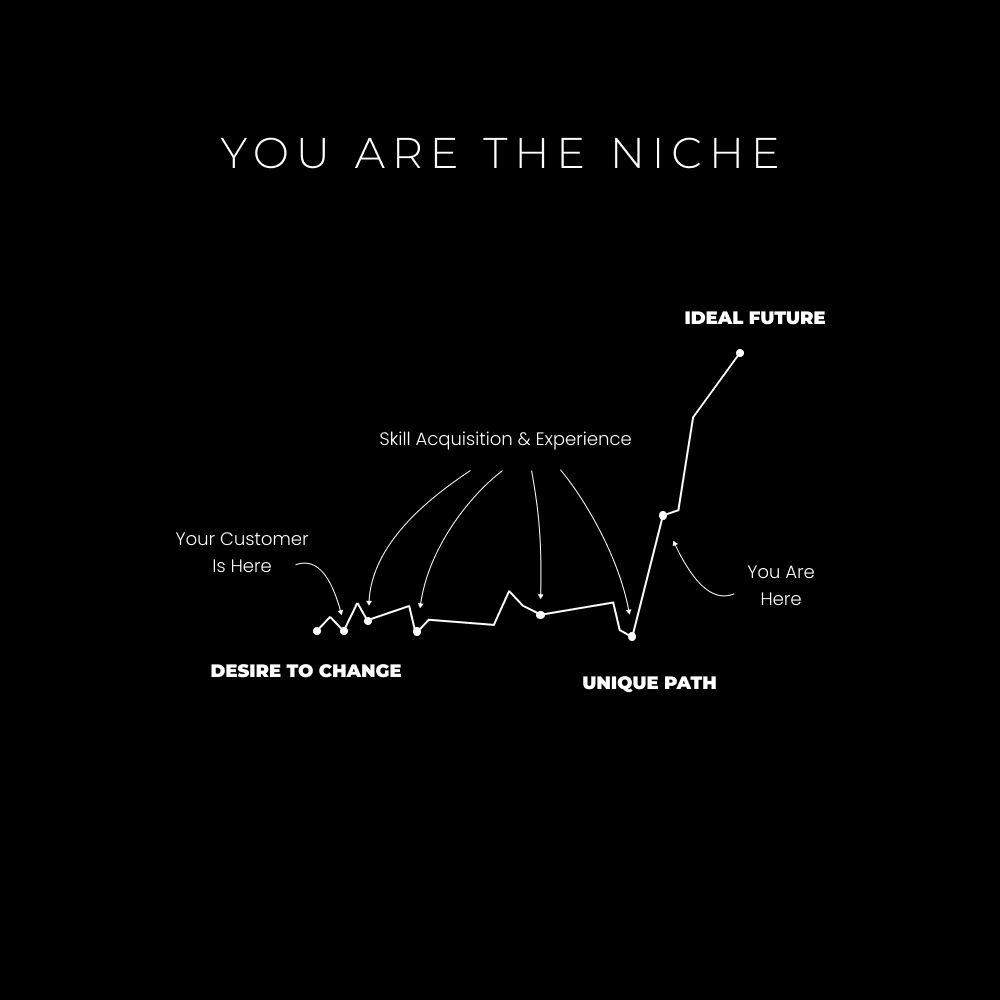
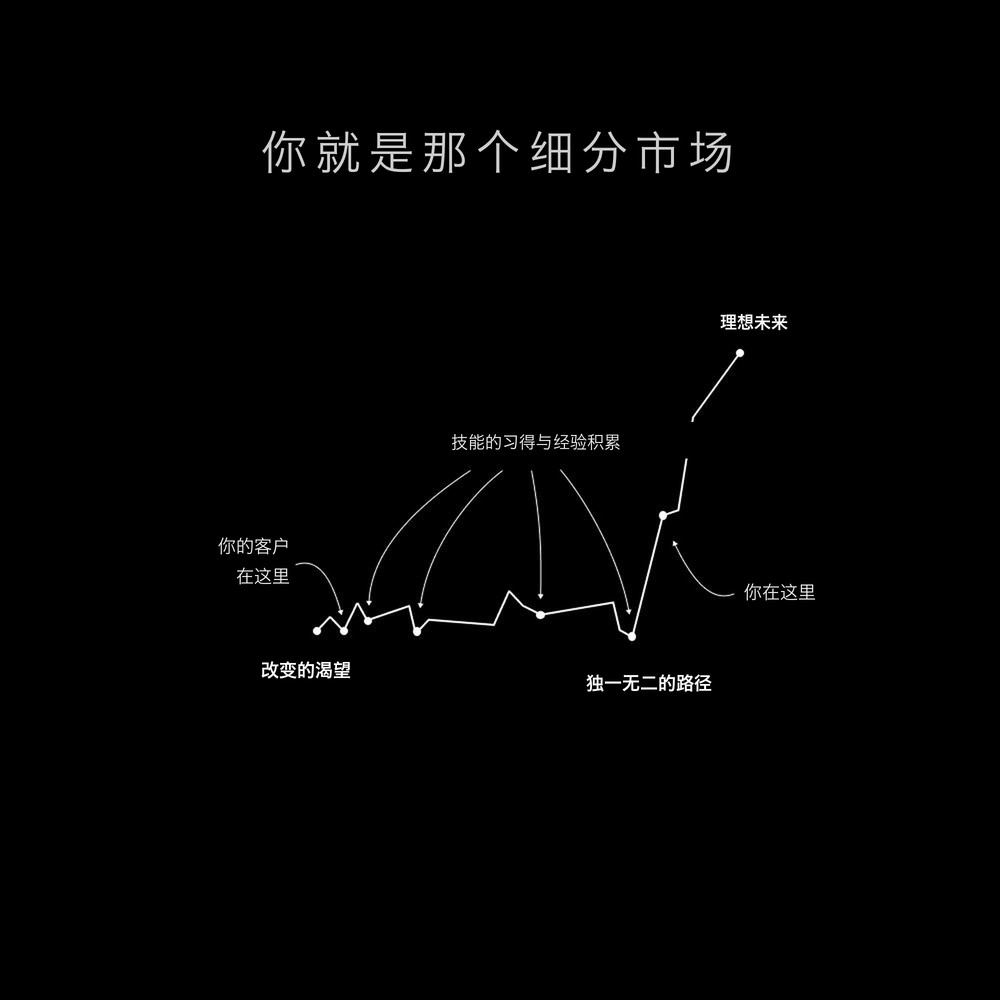
配图汉化第四批：细分市场/心流模型/已知与未知三张重制为中文版，sw v6

diff --git a/sw.js b/sw.js
@@ -1,4 +1,4 @@
-const V='dk-book-20261121-v5';const F=["notes-core.js", "notes-ui.js", "notes.css", "audio-manifest.json", "audio.js", "a/01.html", "a/02.html", "a/03.html", "a/04.html", "a/05.html", "a/06.html", "a/07.html", "a/08.html", "a/09.html", "a/10.html", "a/11.html", "a/12.html", "a/13.html", "a/14.html", "a/15.html", "a/16.html", "a/17.html", "a/18.html", "a/19.html", "a/20.html", "a/21.html", "a/22.html", "a/23.html", "a/n01.html", "a/n02.html", "a/n03.html", "a/n12.html", "a/n11.html", "a/n10.html", "a/n09.html", "a/n08.html", "a/n07.html", "a/n06.html", "a/n05.html", "a/n04.html", "app.js", "reading-layout.js", "fonts/NotoSerifSC-Bold.woff2", "fonts/NotoSerifSC-Regular.woff2", "fonts/fonts.css", "glossary.html", "img/01_1.jpg", "img/01_2.jpg", "img/01_3.jpg", "img/01_5.jpg", "img/01_cover.jpg", "img/02_1.jpg", "img/02_2.jpg", "img/02_3.jpg", "img/02_4.jpg", "img/02_cover.jpg", "img/03_1.jpg", "img/03_2.jpg", "img/03_3.jpg", "img/03_4.jpg", "img/03_cover.jpg", "img/04_cover.jpg", "img/05_1.jpg", "img/05_2.jpg", "img/05_3.jpg", "img/05_cover.jpg", "img/06_1.jpg", "img/06_2.jpg", "img/06_cover.jpg", "img/07_1.jpg", "img/07_2.jpg", "img/07_3.jpg", "img/07_cover.jpg", "img/08_1.jpg", "img/08_2.jpg", "img/08_3.jpg", "img/08_4.jpg", "img/08_5.jpg", "img/08_6.jpg", "img/08_7.jpg", "img/08_cover.jpg", "img/09_cover.jpg", "img/10_cover.jpg", "img/11_cover.jpg", "img/12_1.jpg", "img/12_2.jpg", "img/12_3.jpg", "img/12_4.jpg", "img/12_5.jpg", "img/12_cover.jpg", "img/13_1.jpg", "img/13_2.jpg", "img/13_3.jpg", "img/13_4.jpg", "img/13_cover.jpg", "img/14_1.jpg", "img/14_2.jpg", "img/14_3.jpg", "img/14_cover.jpg", "img/15_1.jpg", "img/15_2.jpg", "img/15_3.jpg", "img/15_4.jpg", "img/15_cover.jpg", "img/16_1.jpg", "img/16_cover.jpg", "img/17_cover.jpg", "img/18_1.jpg", "img/18_2.jpg", "img/18_cover.jpg", "img/19_cover.jpg", "img/20_1.jpg", "img/20_2.jpg", "img/20_cover.jpg", "img/21_1.jpg", "img/21_2.jpg", "img/21_3.jpg", "img/21_cover.jpg", "img/22_cover.jpg", "img/23_1.jpg", "img/23_2.jpg", "img/23_3.jpg", "img/23_cover.jpg", "img/n01_cover.jpg", "img/n02_cover.jpg", "img/n03_cover.jpg", "img/n12_cover.jpg", "img/n11_cover.jpg", "img/n10_cover.jpg", "img/n09_cover.jpg", "img/n08_cover.jpg", "img/n07_cover.jpg", "img/n06_cover.jpg", "img/n05_cover.jpg", "img/n04_cover.jpg", "index.html", "manifest.json", "meta.js", "naval-posts.html", "naval-posts-2025.html", "notes.html", "posts.html", "style.css"];
+const V='dk-book-20261121-v6';const F=["notes-core.js", "notes-ui.js", "notes.css", "audio-manifest.json", "audio.js", "a/01.html", "a/02.html", "a/03.html", "a/04.html", "a/05.html", "a/06.html", "a/07.html", "a/08.html", "a/09.html", "a/10.html", "a/11.html", "a/12.html", "a/13.html", "a/14.html", "a/15.html", "a/16.html", "a/17.html", "a/18.html", "a/19.html", "a/20.html", "a/21.html", "a/22.html", "a/23.html", "a/n01.html", "a/n02.html", "a/n03.html", "a/n12.html", "a/n11.html", "a/n10.html", "a/n09.html", "a/n08.html", "a/n07.html", "a/n06.html", "a/n05.html", "a/n04.html", "app.js", "reading-layout.js", "fonts/NotoSerifSC-Bold.woff2", "fonts/NotoSerifSC-Regular.woff2", "fonts/fonts.css", "glossary.html", "img/01_1.jpg", "img/01_2.jpg", "img/01_3.jpg", "img/01_5.jpg", "img/01_cover.jpg", "img/02_1.jpg", "img/02_2.jpg", "img/02_3.jpg", "img/02_4.jpg", "img/02_cover.jpg", "img/03_1.jpg", "img/03_2.jpg", "img/03_3.jpg", "img/03_4.jpg", "img/03_cover.jpg", "img/04_cover.jpg", "img/05_1.jpg", "img/05_2.jpg", "img/05_3.jpg", "img/05_cover.jpg", "img/06_1.jpg", "img/06_2.jpg", "img/06_cover.jpg", "img/07_1.jpg", "img/07_2.jpg", "img/07_3.jpg", "img/07_cover.jpg", "img/08_1.jpg", "img/08_2.jpg", "img/08_3.jpg", "img/08_4.jpg", "img/08_5.jpg", "img/08_6.jpg", "img/08_7.jpg", "img/08_cover.jpg", "img/09_cover.jpg", "img/10_cover.jpg", "img/11_cover.jpg", "img/12_1.jpg", "img/12_2.jpg", "img/12_3.jpg", "img/12_4.jpg", "img/12_5.jpg", "img/12_cover.jpg", "img/13_1.jpg", "img/13_2.jpg", "img/13_3.jpg", "img/13_4.jpg", "img/13_cover.jpg", "img/14_1.jpg", "img/14_2.jpg", "img/14_3.jpg", "img/14_cover.jpg", "img/15_1.jpg", "img/15_2.jpg", "img/15_3.jpg", "img/15_4.jpg", "img/15_cover.jpg", "img/16_1.jpg", "img/16_cover.jpg", "img/17_cover.jpg", "img/18_1.jpg", "img/18_2.jpg", "img/18_cover.jpg", "img/19_cover.jpg", "img/20_1.jpg", "img/20_2.jpg", "img/20_cover.jpg", "img/21_1.jpg", "img/21_2.jpg", "img/21_3.jpg", "img/21_cover.jpg", "img/22_cover.jpg", "img/23_1.jpg", "img/23_2.jpg", "img/23_3.jpg", "img/23_cover.jpg", "img/n01_cover.jpg", "img/n02_cover.jpg", "img/n03_cover.jpg", "img/n12_cover.jpg", "img/n11_cover.jpg", "img/n10_cover.jpg", "img/n09_cover.jpg", "img/n08_cover.jpg", "img/n07_cover.jpg", "img/n06_cover.jpg", "img/n05_cover.jpg", "img/n04_cover.jpg", "index.html", "manifest.json", "meta.js", "naval-posts.html", "naval-posts-2025.html", "notes.html", "posts.html", "style.css"];
 self.addEventListener('install',e=>{e.waitUntil(caches.open(V).then(c=>c.addAll(F)).then(()=>self.skipWaiting()))});
 self.addEventListener('activate',e=>{e.waitUntil(caches.keys().then(k=>Promise.all(k.filter(x=>x.startsWith('dk-')&&x!==V).map(x=>caches.delete(x)))).then(()=>self.clients.claim()))});
 self.addEventListener('fetch',e=>{if(e.request.method!=='GET')return;

diff --git a/a/12.html b/a/12.html
@@ -23,7 +23,7 @@
 <p data-b="11" id="p11">最后，我有一个简短的练习，6 个问题，它也许能为你打开一种全新的生活方式——哪怕它看起来很简单。</p><div class="en-p" lang="en">At the end, I have a short practice, with 6 questions, which may open you up to a new way of life - even if it seems simple.</div>
 <hr/>
 <p data-b="12" id="p12">开始之前，先自我赞助一下，两件事（要是你一看别人推广就上火，请跳过）：</p><div class="en-p" lang="en">Before we begin, self-sponsorship, 2 things (skip if you get mad at people promoting):</div>
-<figure class="fig"><img alt="原文配图" loading="lazy" src="../img/12_2.jpg"/></figure>
+<figure class="fig"><img alt="已知与未知之间那道边缘：就业、创业与最佳切换时机" loading="lazy" src="../img/12_2.jpg"/></figure>
 <details class="promo"><summary>作者产品推广（Eden）· 已折叠，点击展开</summary><ol type="1">
 <li data-b="13" id="p13"><span class="citation" data-cites="edendotso">@edendotso</span> 现在支持所有平台（包括 Substack）的社交内容定时发布，还能研究任何平台上的异常爆款帖子，而且你可以通过 MCP 在 Claude 里完成这一切——这是完整的内容工作流。首月五折，在这里。<a class="uri" href="https://letters.thedankoe.com/p/growing-on-social-media-is-easy-actually?lli=1">https://letters.thedankoe.com/p/growing-on-social-media-is-easy-actually?lli=1</a><div class="en-p" lang="en">@edendotso now has social scheduling for all platforms (Substack too), along with researching outlier posts on any platform, and you can do it all from Claude with the MCP - it’s the complete content workflow. 50% off your first month here.</div></li>
 <li data-b="14" id="p14">下一期个人品牌训练营 7 月 8 日开始。你会学到 AI 时代人们真正需要的那套技能，并学会如何为你自己的品牌和生意定位。在报名截止前在这里加入。<a class="uri" href="https://eden.so/bootcamp">https://eden.so/bootcamp</a><div class="en-p" lang="en">The next personal brand bootcamp starts July 8th. You learn the set of skills that people actually need in the AI age, and you learn how to position your own brand and business. Join here before the enrollment date.</div></li>

diff --git a/a/05.html b/a/05.html
@@ -65,7 +65,7 @@
 <p data-b="47" id="p47">你没有清晰感，是因为你任由注意力飘向一个干扰，然后不知不觉，你的头脑就像一场兄弟会派对的尾声：到处都是醉倒的人，你甚至不知道从哪儿开始收拾。</p><div class="en-p" lang="en">You don't have clarity because you allow your attention to drift toward one distraction, and before you know it, your mind is like the end of a frat party. People passed out everywhere and you don't even know where to start cleaning.</div>
 <p data-b="48" id="p48">好消息是，解法很简单，但很有力。</p><div class="en-p" lang="en">The good thing is that the solution is simple, but powerful.</div>
 <h2 data-b="49" id="s2">二、如何随时开启惊人的专注力</h2><div class="en-p" lang="en">II – How to unlock insane focus on command</div>
-<figure class="fig"><img alt="原文配图" loading="lazy" src="../img/05_1.jpg"/></figure>
+<figure class="fig"><img alt="心流模型：挑战与技能高低组合出的八个状态" loading="lazy" src="../img/05_1.jpg"/></figure>
 <p data-b="50" id="p50">清晰（Clarity）、重要（Importance）、紧迫（Urgency）。</p><div class="en-p" lang="en">Clarity, importance, and urgency.</div>
 <p data-b="51" id="p51">这些是关键要素，挡住干扰，不让它们钻进你的心智。这些是深度专注工作的必要条件。</p><div class="en-p" lang="en">Those are the critical ingredients that prevent distractions from penetrating your mind. Those are the requirements needed for deep focused work.</div>
 <ul>

diff --git a/a/02.html b/a/02.html
@@ -155,7 +155,7 @@
 <p data-b="129" id="p129">品牌是读者关注你 3–6 个月后，在他们脑海中积累起来的观念总和。</p>
 <p data-b="130" id="p130">你在每一个触点上展示你的世界观、你的故事和你的人生哲学。你的横幅、头像、简介、简介里的链接、落地页设计、置顶内容、帖子、长推串（threads）、新闻信（newsletters）、视频，以及其余的一切。</p>
 <p data-b="131" id="p131">换句话说，你的品牌是这样的：</p>
-<figure class="fig"><img alt="原文配图" loading="lazy" src="../img/02_4.jpg"/></figure>
+<figure class="fig"><img alt="你就是那个细分市场：从改变的渴望到独一无二的路径" loading="lazy" src="../img/02_4.jpg"/></figure>
 <p data-b="132" id="p132">你的品牌就是你的故事。</p>
 <p data-b="133" id="p133">花一天时间写下你从哪里来、你人生中的"低谷"、你的经历和习得的技能，以及这些东西如何给了你最大的帮助，会很有帮助。</p>
 <p data-b="134" id="p134">当你构思想法、内容或产品时，应该用你的故事去过滤它们。这并不意味着你必须一直谈论自己。它意味着你必须让你说的话保持一致，这样你的品牌才是连贯的。</p>
